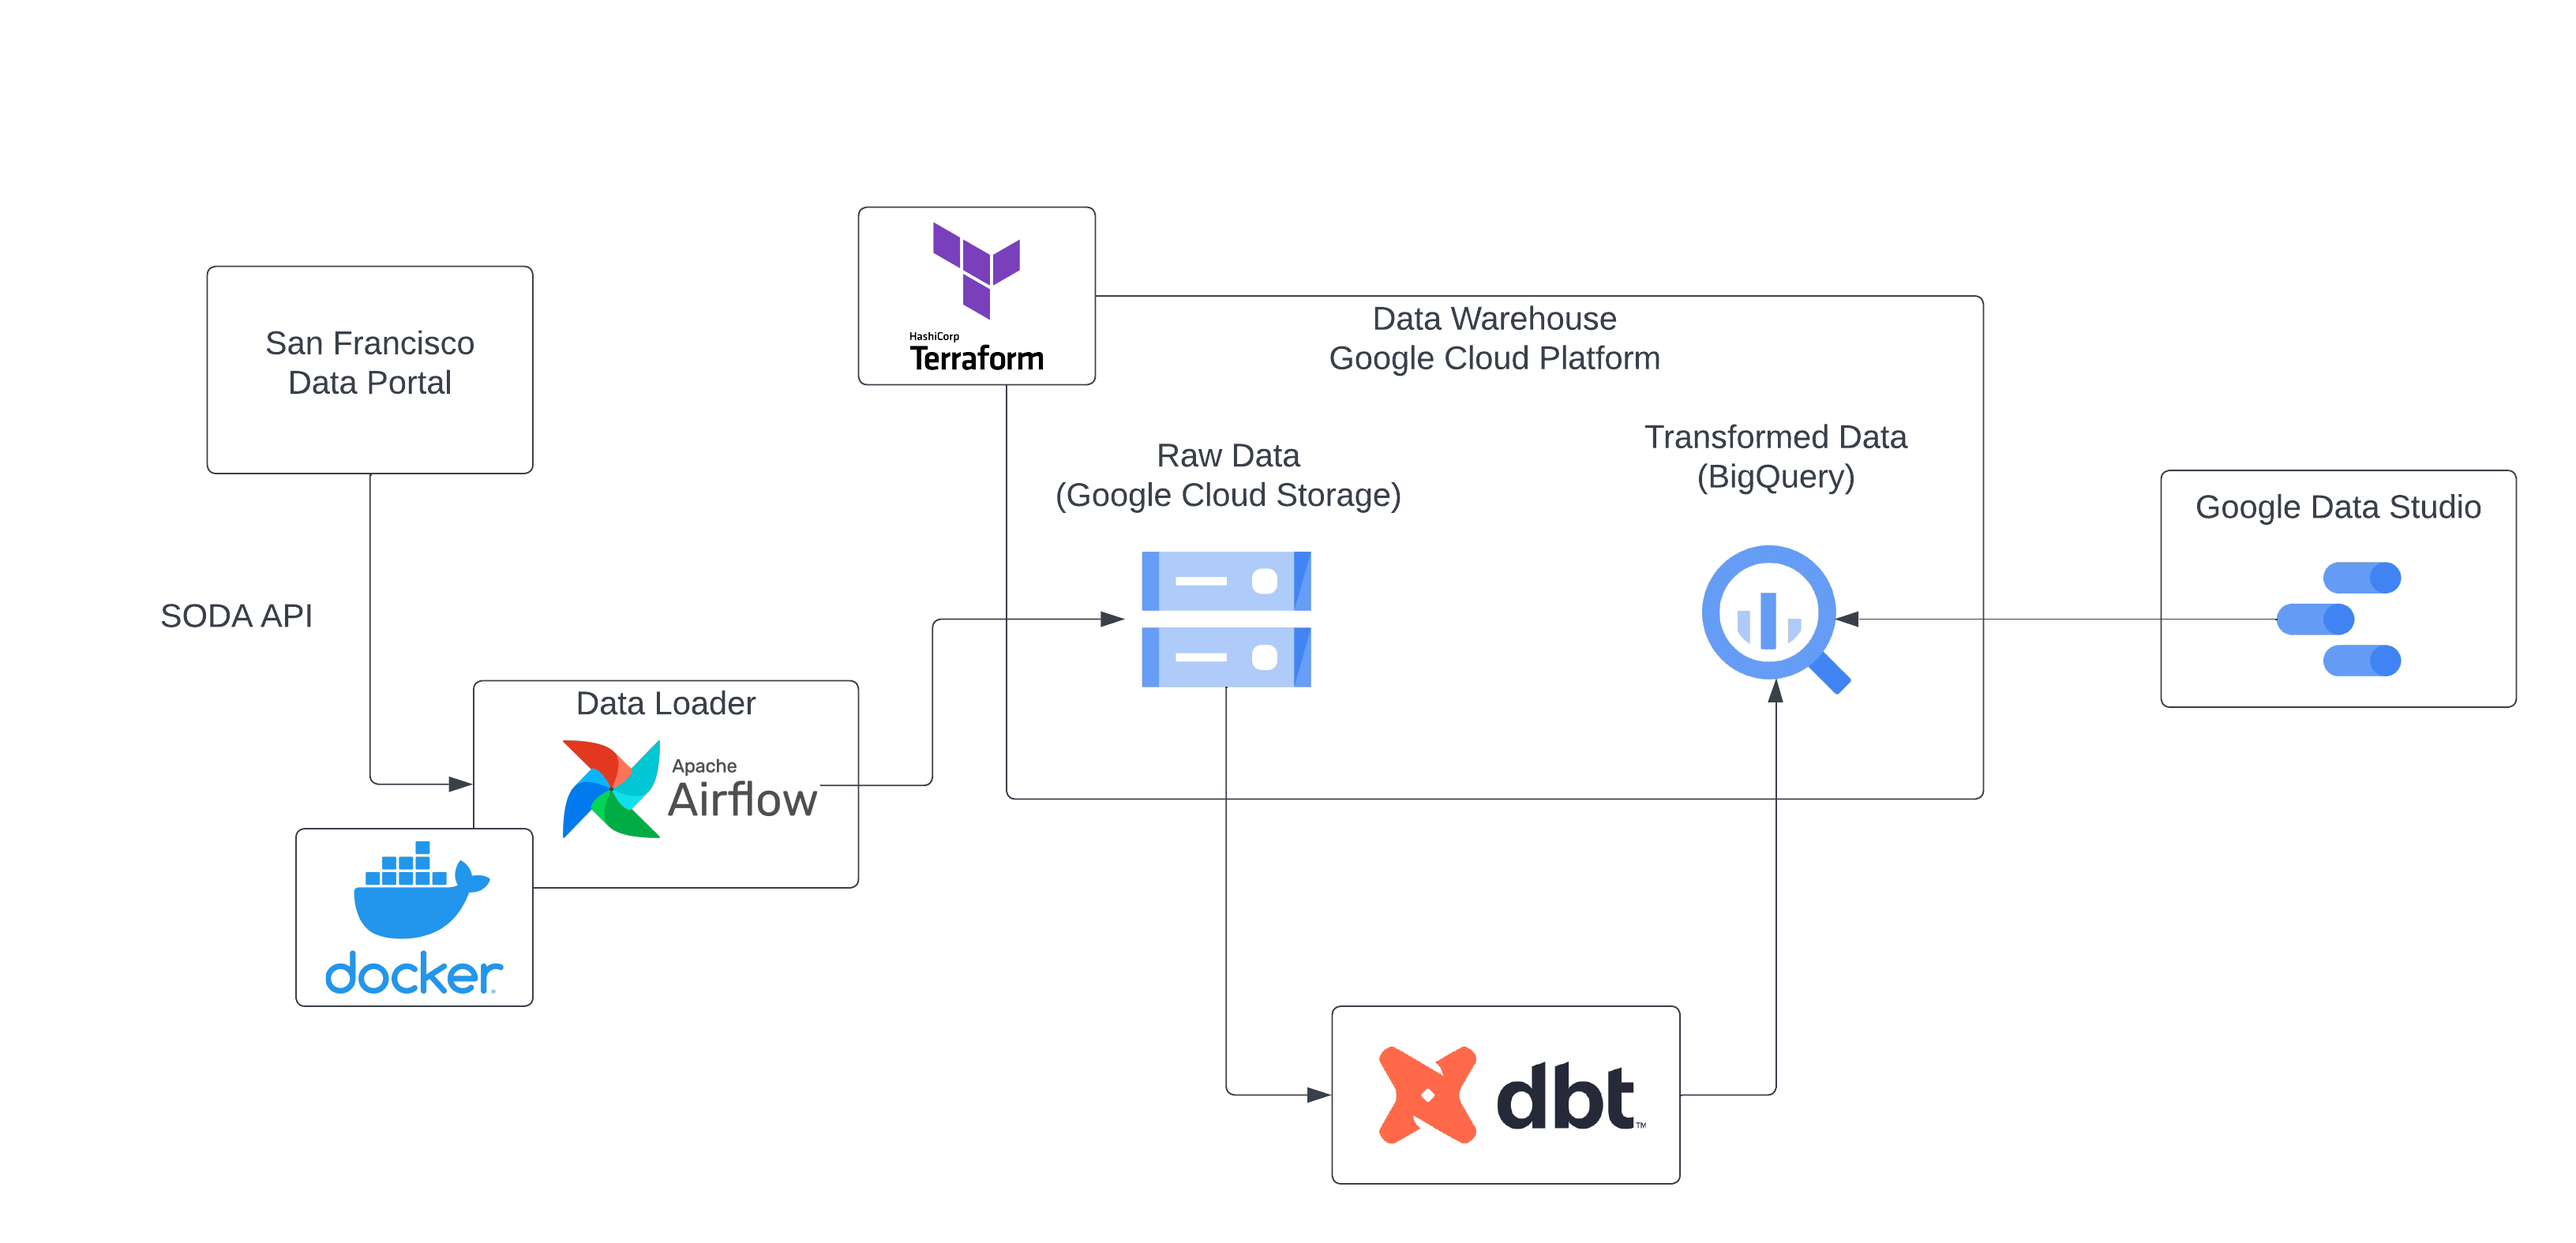
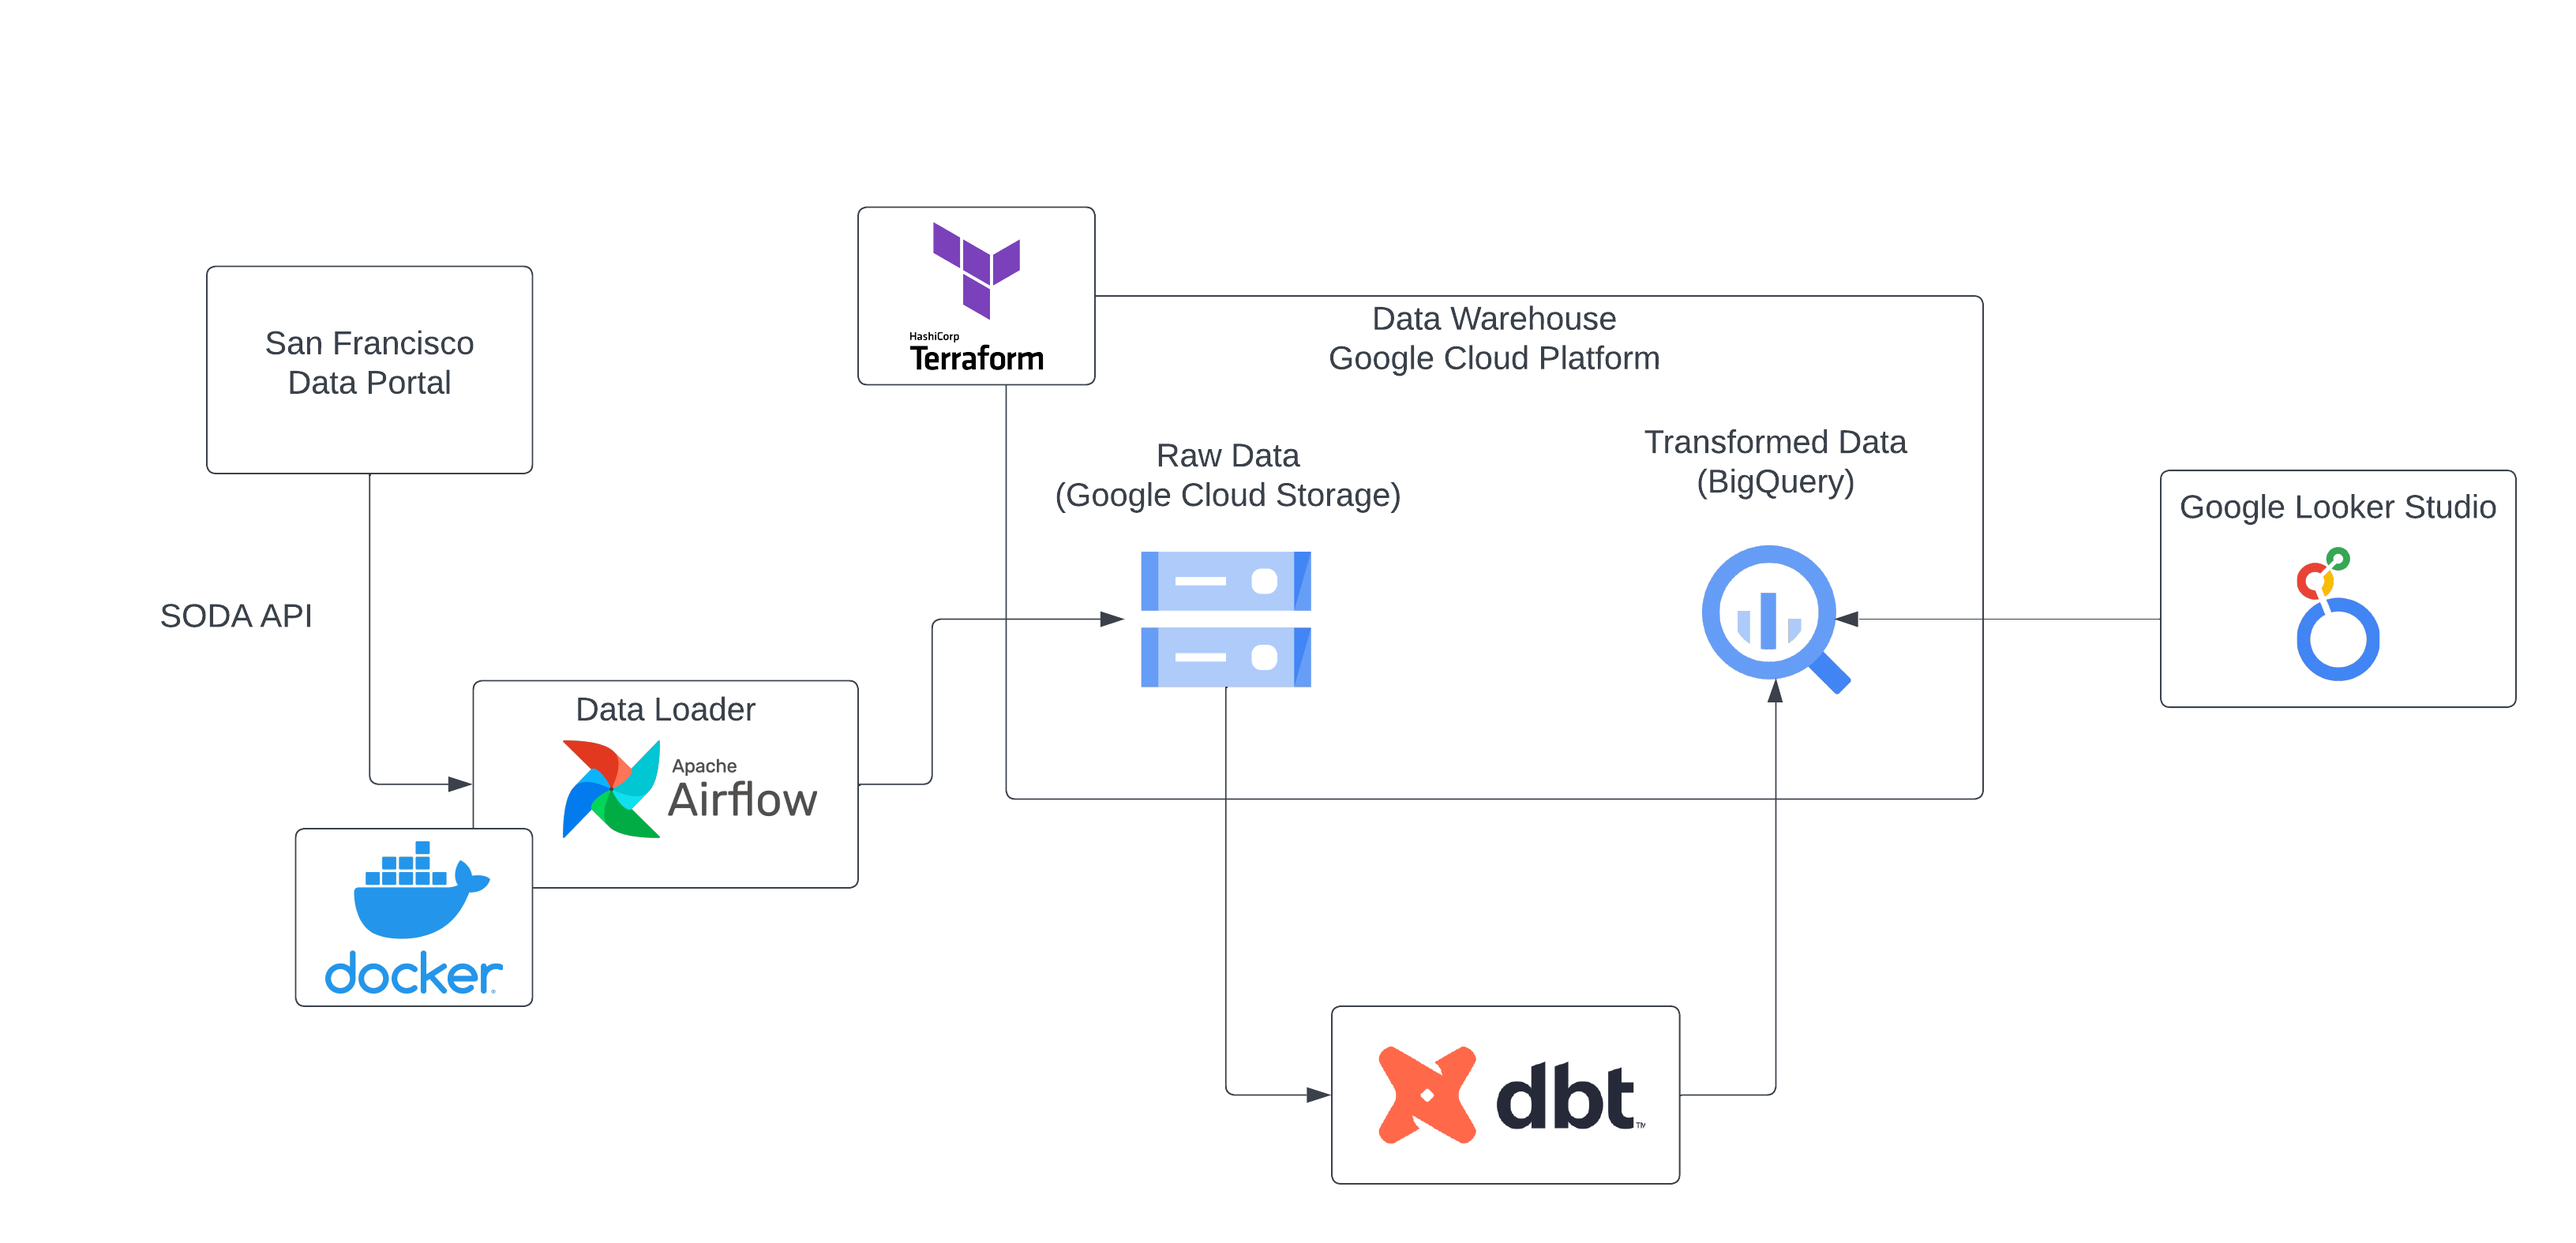
Corrected graphs, statistics, Google Looker Studio

diff --git a/README.md b/README.md
@@ -10,7 +10,7 @@ Below is a pictoral description of the architecture used in this project.
 
 ![San Francisco Crime Data Project Architecture](./images/SF-crime-architecture.png)
 
-To summarize, the Airflow DAG will extract the data from the San Francisco data portal via Socrata Open Data API and upload parquet files to the data lake. From there data is moved from the lake to warehouse. dbt will transform the data in the warehouse to be used by Google Data Studio.
+To summarize, the Airflow DAG will extract the data from the San Francisco data portal via Socrata Open Data API and upload parquet files to the data lake. From there data is moved from the lake to warehouse. dbt will transform the data in the warehouse to be used by Google Looker Studio.
 
 ## Required Components
 
@@ -21,7 +21,7 @@ The following tools are used in this project:
 * [Apache Airflow](./airflow/)
 * [dbt](./dbt/)
 * [Socrata Open Data Application Programming Interface (SODA)](https://dev.socrata.com/)
-* [Google Data Studio](https://datastudio.google.com)
+* [Google Looker Studio (Formally Google Data Studio)](https://lookerstudio.google.com)
 
 ## Visualizations
 
@@ -37,7 +37,7 @@ Let's examine the spread of the types of incidents reported to the San Francisco
 
 ![Category Distribution](./images/category-distribution.png)
 
-As you can see, larceny theft (29.6%) is the majority of incidents reported in San Francisco followed by malicious mischief (22.9%).
+As you can see, larceny theft (30.2%) is the majority of incidents reported in San Francisco followed by malicious mischief (21.7%).
 
 ### Top 10 Reported Incidents by Subcategory
 
